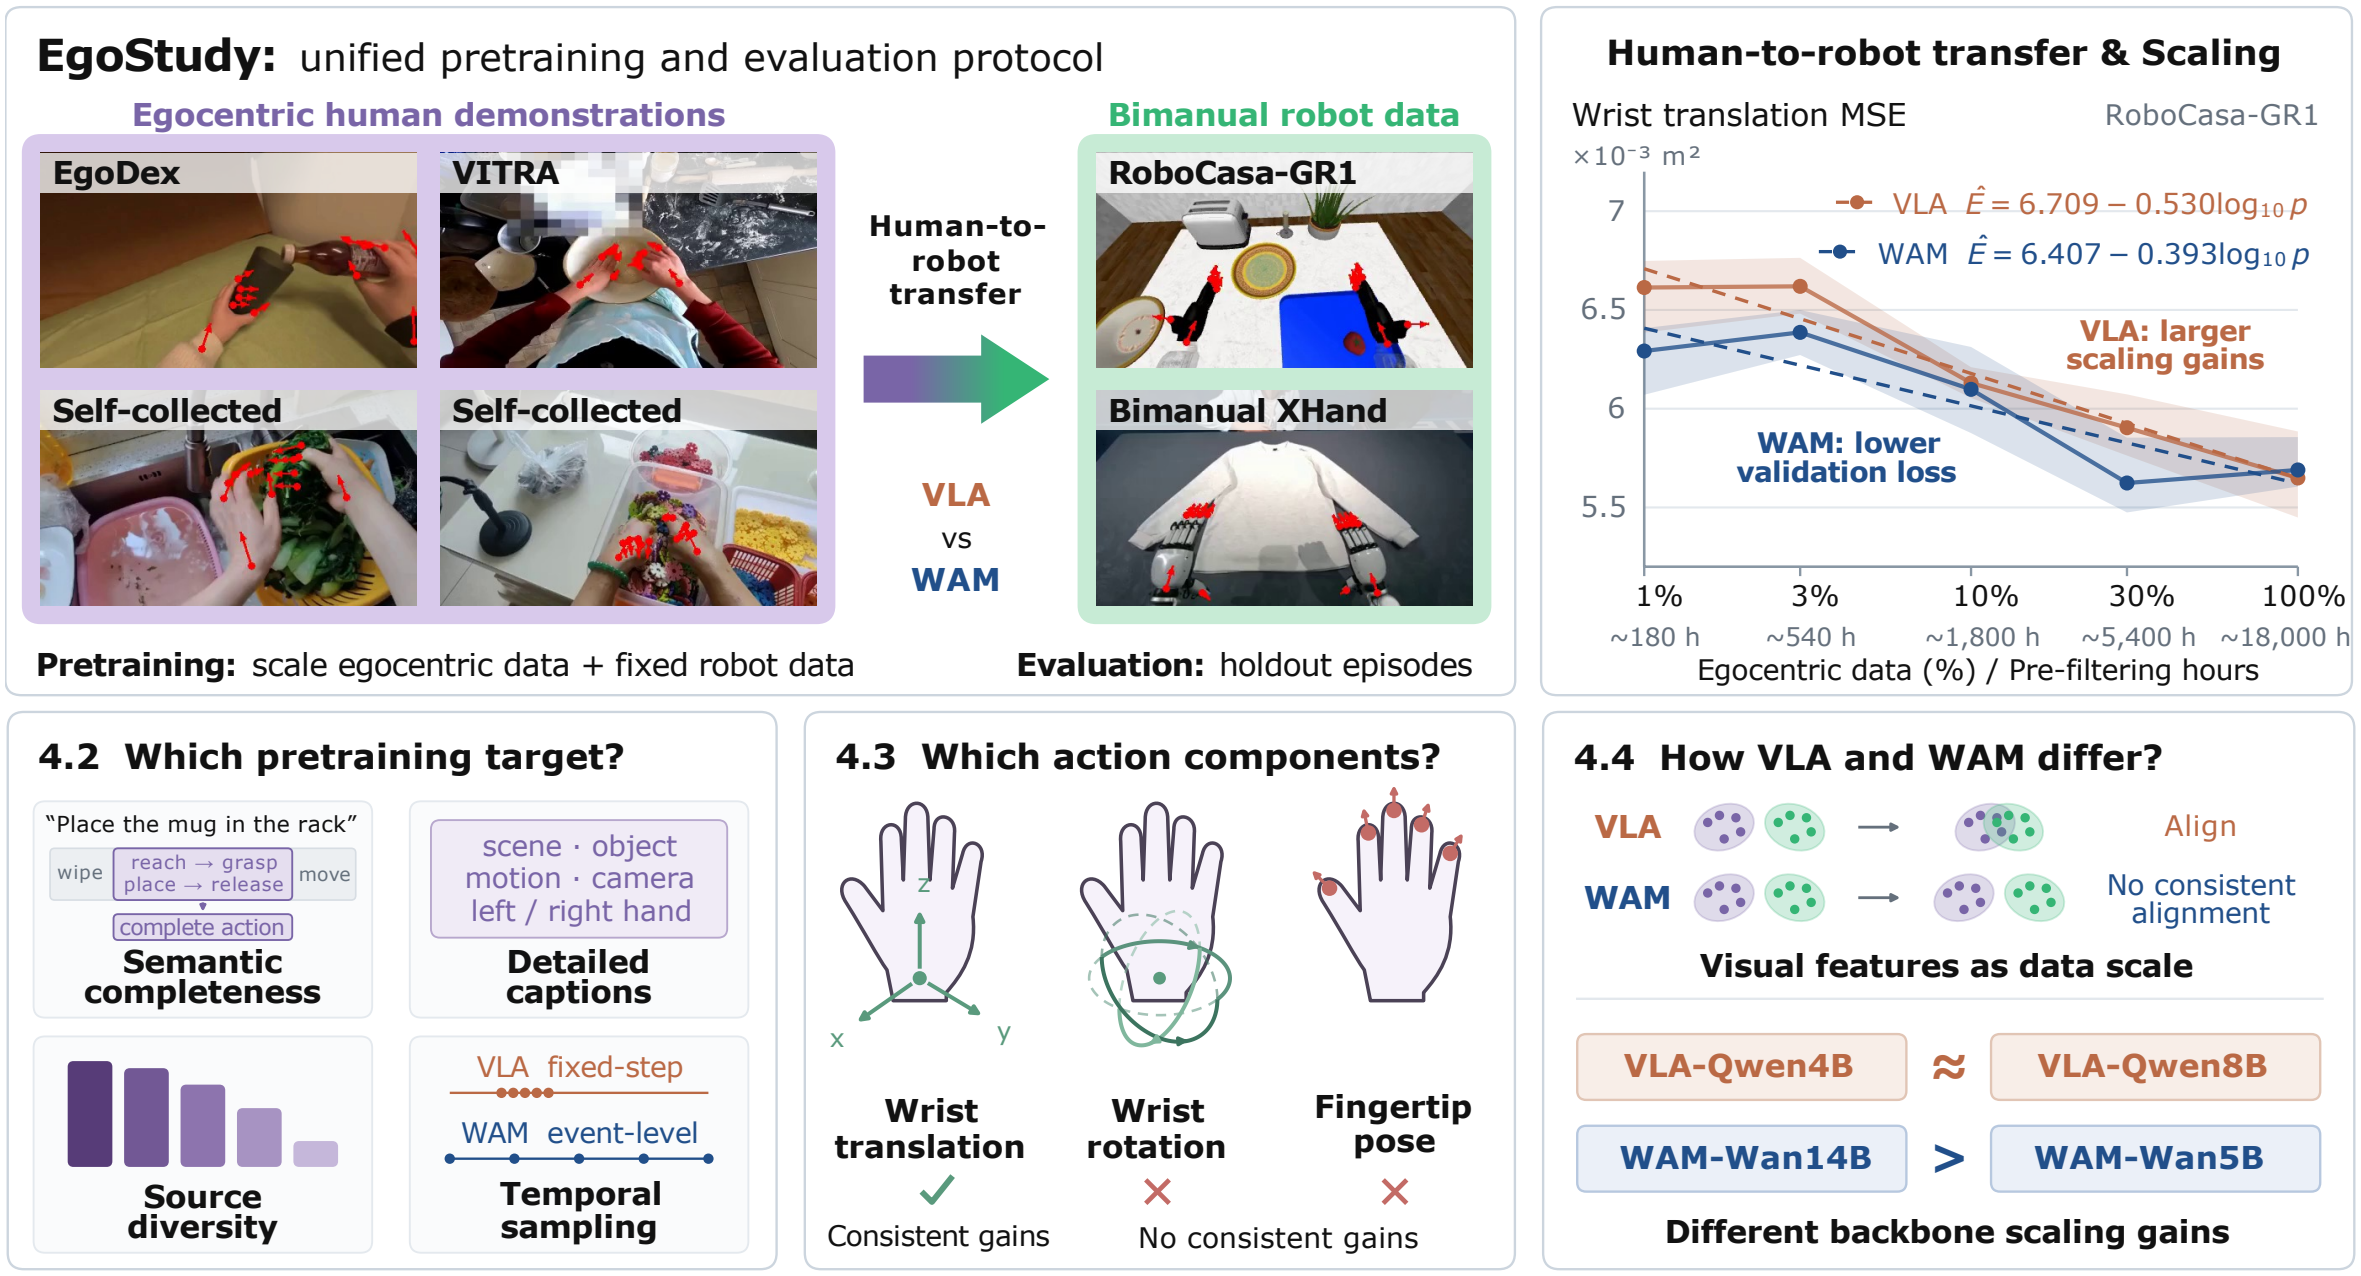
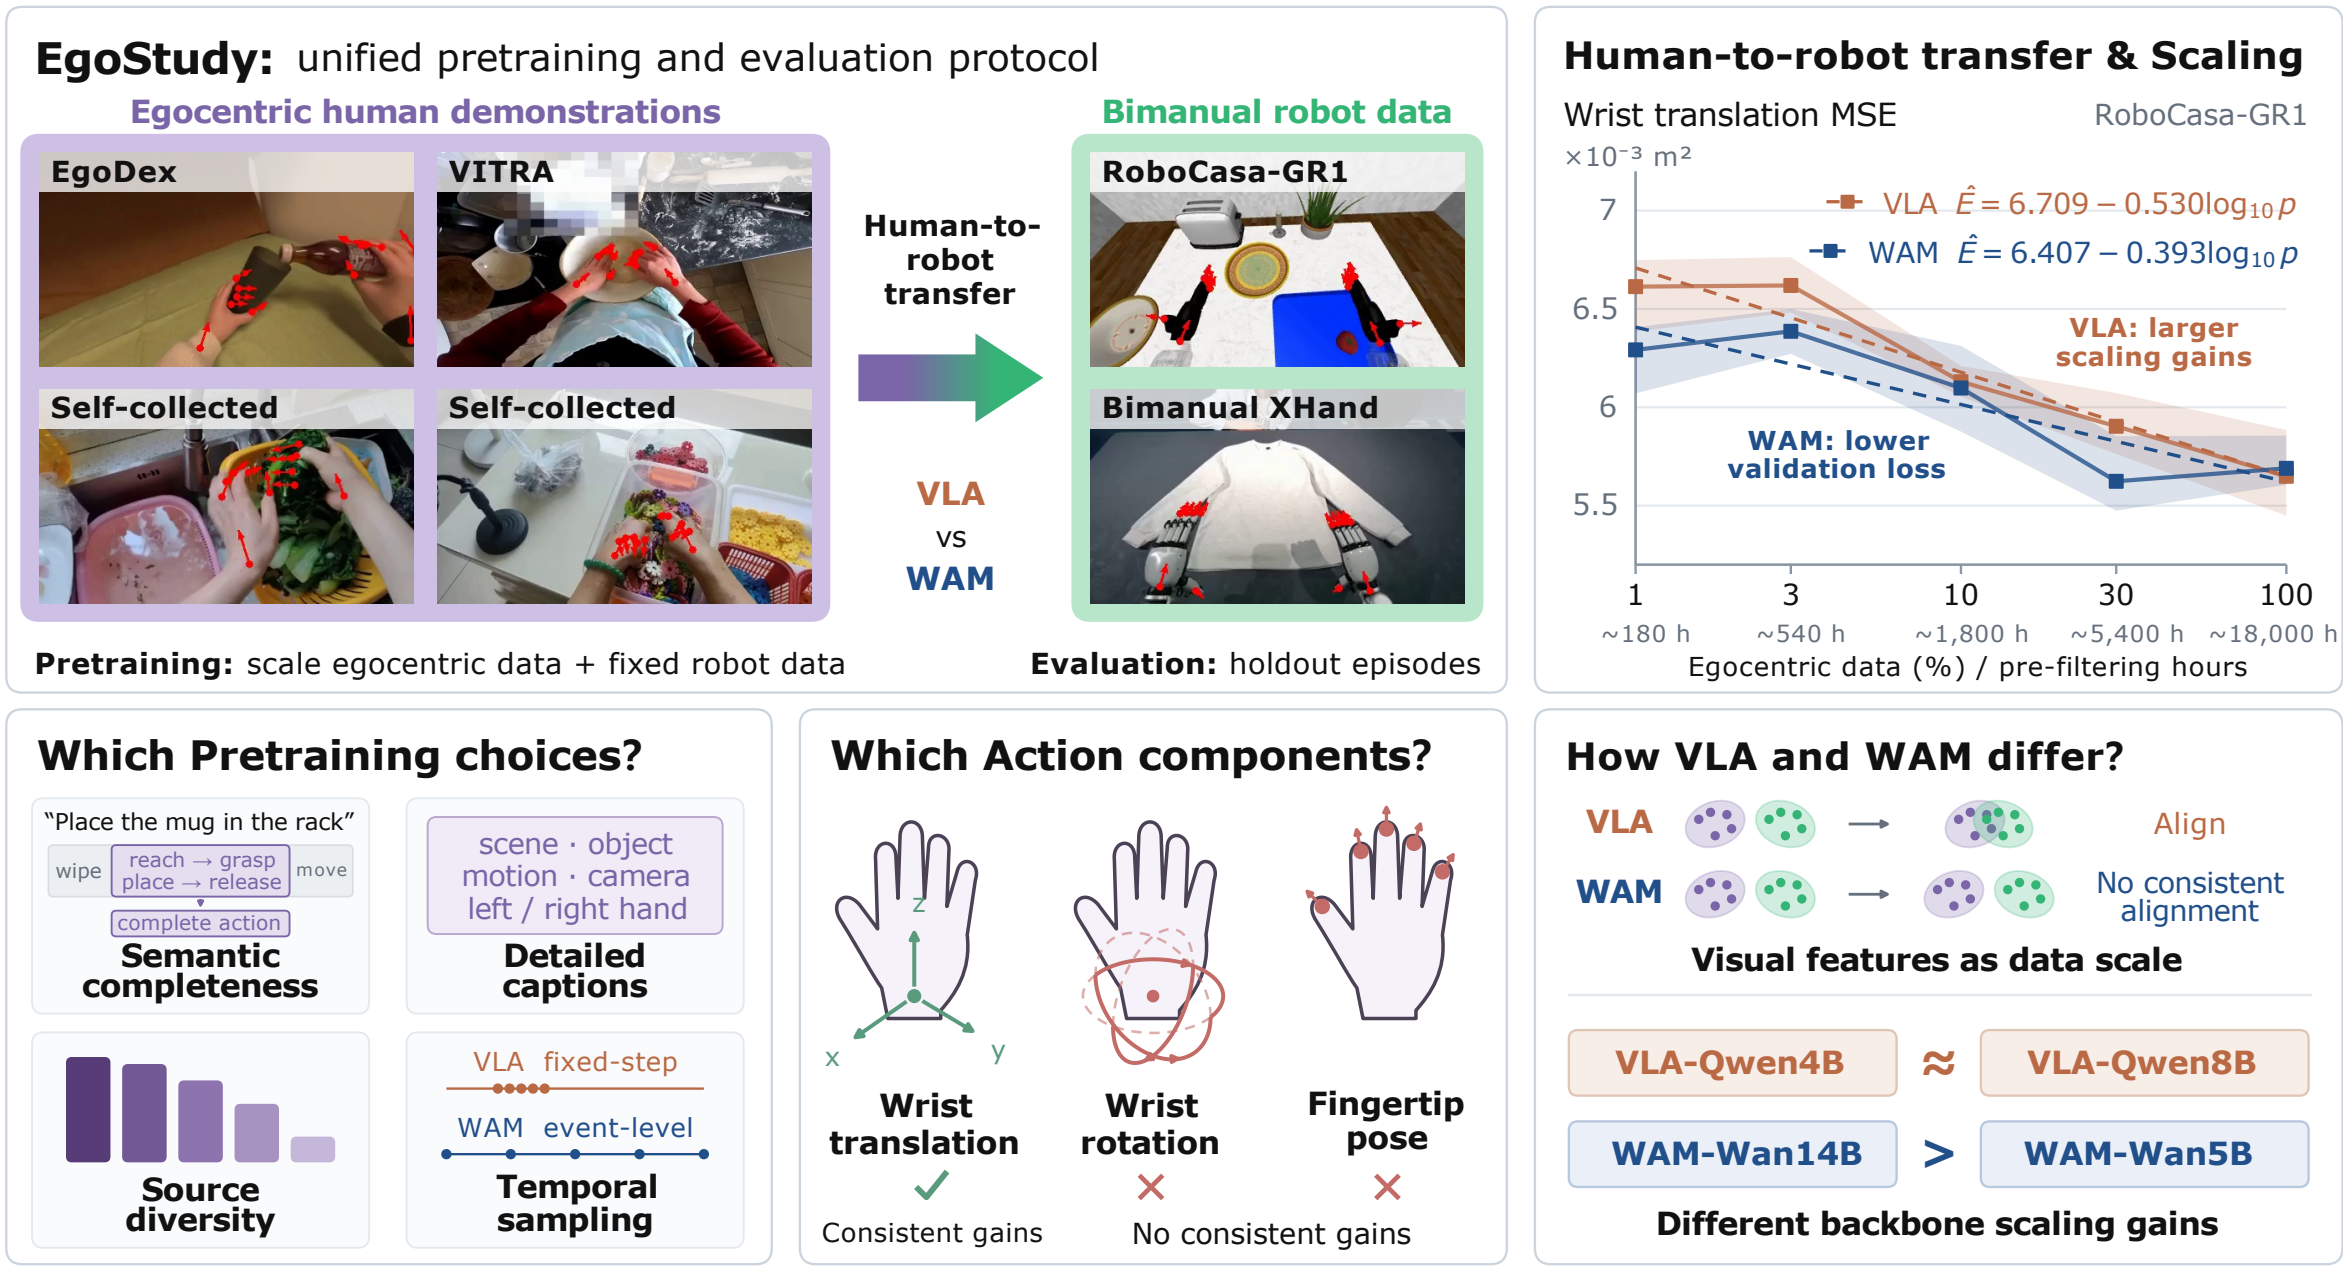
Refresh teaser and robot control figures from EgoStudy v4

diff --git a/index.html b/index.html
@@ -23,7 +23,7 @@
 </div>
 <div class="teaser wrap"><figure class="plate plate-1">
   <a class="figure-link" href="assets/figures/overview.png" target="_blank" rel="noopener" aria-label="Open Figure 1 at full size">
-    <img src="assets/figures/overview.png" width="2361" height="1276" alt="Study overview linking human and robot demonstrations to the scaling curves and the three research questions." fetchpriority="high">
+    <img src="assets/figures/overview.png" width="2348" height="1271" alt="Study overview linking human and robot demonstrations to the scaling curves and the three research questions." fetchpriority="high">
   </a>
   <figcaption><b>Figure 1.</b> Overview of EgoStudy. We conduct a controlled study by scaling egocentric human data while keeping robot training exposure fixed (top left). Increasing human data reduces wrist translation error for both VLAs and WAMs (top right). The bottom panels show how scaling behavior varies with pretraining choices, across action components, and between VLAs and WAMs.</figcaption>
 </figure></div>
